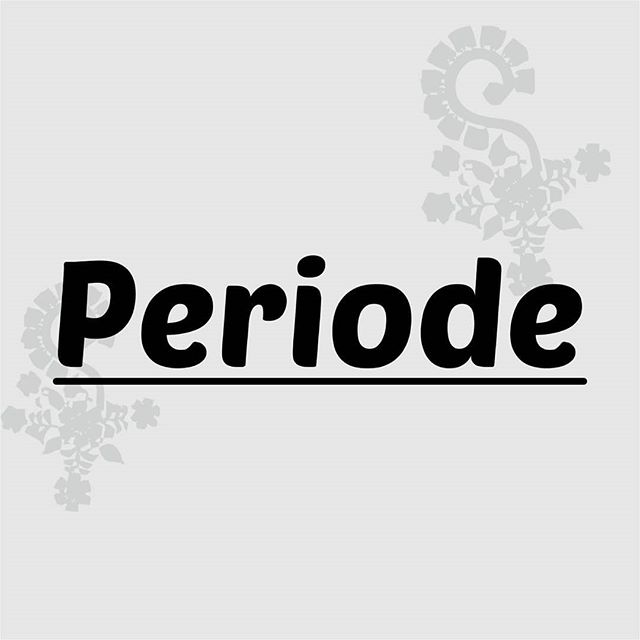
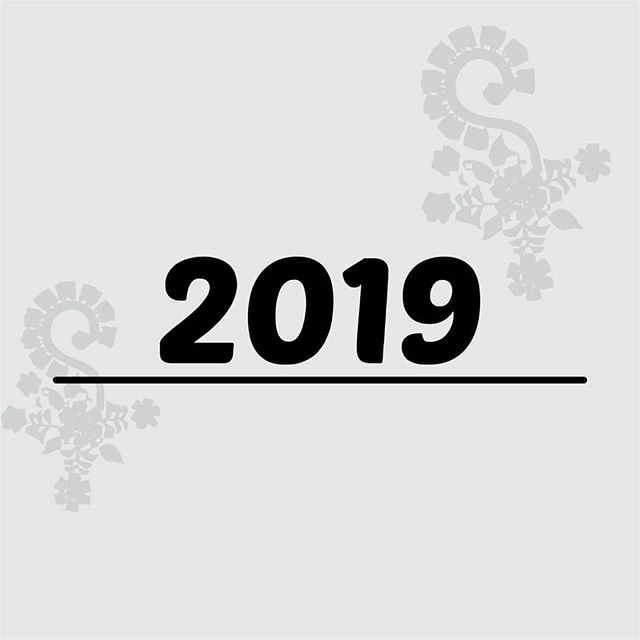
sepertinya final

Changed region(s): [[0.0938, 0.375, 0.9062, 0.625]]

diff --git a/index.html b/index.html
@@ -52,7 +52,7 @@
         </div>
 
         <div id="scene">
-            <img v-for="i in 13" :src="'./src/assets/img/p-'+i+'.png'" class="position-absolute" :id="'bg'+i">
+            <img v-for="i in 13" :src="'./src/assets/img/p-'+i+'.png'" class="position-absolute">
         </div>
         
         <div class="container pt-2">
@@ -82,7 +82,7 @@
                 <!-- <img src="./src/assets/img/bg-foto.jpg" alt=""> -->
             </div>
 
-            <div class="text-center pt-5 m-5">
+            <div class="text-center content-m">
                 <div class="my-5 pt-5">
                     <h2>Kepengurusan HMTI</h2>
                     <h4 class="text-secondary">- Periode 2019 -</h4>
@@ -94,81 +94,104 @@
 
                 <div class="row">
                     <div class="col-md-4 my-3" v-for="i in 12">
-                        <img :src="'./src/assets/img/hmti/p-'+i+'.jpg'" class="w-100 hmti-p" :id="'bg'+i">
+                        <img :src="'./src/assets/img/hmti/p-'+i+'.jpg'" class="w-100 hmti-p scale" :id="'bg'+i">
                     </div>
                 </div>
             </div>
             
+            <div class="dropdown-divider m-0"></div>
             
             <!-- About Us -->
-            <div class="row about text-center">
-                <div class="col-md-10 m-5 mx-auto">
-                    <div>
+            <div class="row about content-m text-center">
+
+                <img src="./src/assets/img/p-11.png" class="position-absolute">
+                <img src="./src/assets/img/p-3.png" class="position-absolute">
+                <img src="./src/assets/img/p-5.png" class="position-absolute">
+                <img src="./src/assets/img/p-9.png" class="position-absolute">
+                <img src="./src/assets/img/p-10.png" class="position-absolute">
+                <img src="./src/assets/img/p-13.png" class="position-absolute">
+                
+                <div class="col-md-10 mx-auto">
+                    <div class="my-5">
                         <h2>About Us</h2>
                         <h4 class="text-secondary">- The Amazing Team -</h4>
                     </div>
+                    
                     <div class="row">
-                        <div class="col-md-4" v-for="about in abouts">
[1 lines of base64/hex data omitted]
+                        <div class="col-md-4" v-for="(about, key) in abouts">
+                            <img class="rounded-circle dev scale" :src="'./src/assets/img/about/p-'+key+'.jpg'" alt="">
                             <h5 class="mt-3">{{ about.name }}</h5>
                             <p class="job text-secondary">- {{ about.job }} -</p>
                         </div>
                     </div>
                 </div>
+
             </div> <!-- / About Us -->
-            
-
-            <div class="dropdown-divider m-0"></div>
-    
+                
         </div> <!-- Container -->
-
+        
         <!-- Contact Us -->
-        <div class="contact">
-            <div class="text-center pt-5">
-                <div class="my-5 pt-5">
-                    <h2>Contact Us</h2>
-                    <!-- <h4 class="gray">- Periode 2019 -</h4> -->
-                </div>
-
-                <!-- <div class="donut donut-center-top position-absolute"></div> -->
-
-                <!-- <div class="donut donut-center-bottom position-absolute"></div> -->
+        <div class="gradient-bar mt-5"></div>
+        <div class="contact py-5 text-white">
+            <div class="py-5 container">
 
                 <div class="row">
-                    <div class="col-md-4">
+                    <div class="col-md-5 pr-1">
+                        <h6 class="font-weight-bold pb-3 text-uppercase">Contact us</h5>
+                        <div class="text-secondary">
 
+                            <p class="font-weight-bold">logiXode Inc. | Rohmad Kurniadi</p>
+                            <p>Singolatren, Singojuruh, Kab. Banyuwangi</p>
+
+                            <div class="row">
+                                <div class="col-md-5">
+                                    <icon-call></icon-call>+6287886541321
+                                </div>
+
+                                <div class="col-md-7">
+                                    <icon-mail></icon-mail>    
+                                    <a href="mailto:rohmad1230@gmail.com">rohmad1230@gmail.com</a>
+                                </div>
+                            </div>
+
+                        </div>
                     </div>
 
-                    <div class="col-md-4">
+                    <div class="col-md-4 pr-1">
+                        <h6 class="font-weight-bold pb-3 text-uppercase">Find Us at</h5>
+
+                        <icon-fb></icon-fb>
+                        <icon-github></icon-github>
+                        <icon-yt></icon-yt>
+                        <icon-ig></icon-ig>
+                    </div>
+
+                    <div class="col-md-3 pr-1 text-right">
+                        <h6 class="font-weight-bold pb-3 text-uppercase">Compatible Device</h5>
                             
+                        <icon-android></icon-android>
+                        <icon-ios></icon-ios>
+                        <icon-win></icon-win>
                     </div>
-
-                    <div class="col-md-4">
-                        Compatible Device
-                    </div>
-                    <!-- <div class="col-md-4 my-3" v-for="i in 12">
-                        <img :src="'./src/assets/img/hmti/p-'+i+'.jpg'" class="w-100 hmti-p" :id="'bg'+i">
-                    </div> -->
                 </div>
+
             </div>
         </div> <!-- / Contact Us -->
 
         <!-- Footer -->
-        <footer class="mt-5">
+        <footer>
             <div class="container">
 
-                <div class="row p-2">
+                <div class="row py-2">
                     <div class="col-md-11 pt-3">
                         <h4 class="rainbow font-weight-bold mb-1">TI POLIWANGI</h4>
                         <div class="text-secondary">
                             <p>Copyright ©2019 All rights reserved | This Website made with Vue by Rohmad Kurniadi</p>
                         </div>
                     </div>
-                    <div class="col-md-1 pt-3 text-center">
-                        <a href="https://www.instagram.com/tipoliwangi12/">
-                            <svg xmlns="http://www.w3.org/2000/svg" width="50" height="50" viewBox="0 0 24 24">
-                                <path style="fill : #fff" d="M12 2.163c3.204 0 3.584.012 4.85.07 3.252.148 4.771 1.691 4.919 4.919.058 1.265.069 1.645.069 4.849 0 3.205-.012 3.584-.069 4.849-.149 3.225-1.664 4.771-4.919 4.919-1.266.058-1.644.07-4.85.07-3.204 0-3.584-.012-4.849-.07-3.26-.149-4.771-1.699-4.919-4.92-.058-1.265-.07-1.644-.07-4.849 0-3.204.013-3.583.07-4.849.149-3.227 1.664-4.771 4.919-4.919 1.266-.057 1.645-.069 4.849-.069zm0-2.163c-3.259 0-3.667.014-4.947.072-4.358.2-6.78 2.618-6.98 6.98-.059 1.281-.073 1.689-.073 4.948 0 3.259.014 3.668.072 4.948.2 4.358 2.618 6.78 6.98 6.98 1.281.058 1.689.072 4.948.072 3.259 0 3.668-.014 4.948-.072 4.354-.2 6.782-2.618 6.979-6.98.059-1.28.073-1.689.073-4.948 0-3.259-.014-3.667-.072-4.947-.196-4.354-2.617-6.78-6.979-6.98-1.281-.059-1.69-.073-4.949-.073zm0 5.838c-3.403 0-6.162 2.759-6.162 6.162s2.759 6.163 6.162 6.163 6.162-2.759 6.162-6.163c0-3.403-2.759-6.162-6.162-6.162zm0 10.162c-2.209 0-4-1.79-4-4 0-2.209 1.791-4 4-4s4 1.791 4 4c0 2.21-1.791 4-4 4zm6.406-11.845c-.796 0-1.441.645-1.441 1.44s.645 1.44 1.441 1.44c.795 0 1.439-.645 1.439-1.44s-.644-1.44-1.439-1.44z"/>
-                            </svg>
+                    <div class="col-md-1 pt-3 text-right">
+                        <a href="https://www.instagram.com/tipoliwangi/">
+                           <icon-ig/>
                         </a>
                     </div>
                 </div>

diff --git a/src/js/app.js b/src/js/app.js
@@ -21,11 +21,6 @@ var app = new Vue({
       ],
         scrolled: false,
     },
-    components: {
-       VueHeader: {},
-       VueFooter: {}
-    },
-
     mounted() {
         $(window).scroll(function () {
             if ($(document).scrollTop() <= 50) {
@@ -37,6 +32,43 @@ var app = new Vue({
             }
             // var $nav = $(".nav-stanby")
             // $nav.toggleClass('main_menu', $(this).scrollTop() > 70)
-        });
+        })
     }
 })
+
+Vue.component('icon-mail', {
+    template: '<svg xmlns="http://www.w3.org/2000/svg" width="20" height="20" viewBox="0 0 24 24"><path style="fill : #fff" d="M0 3v18h24v-18h-24zm21.518 2l-9.518 7.713-9.518-7.713h19.036zm-19.518 14v-11.817l10 8.104 10-8.104v11.817h-20z"/></svg>'
+}),
+
+Vue.component('icon-call', {
+    template: '<svg xmlns="http://www.w3.org/2000/svg" width="20" height="20" viewBox="0 0 24 24"><path style="fill : #fff" d="M6.176 1.322l2.844-1.322 4.041 7.89-2.724 1.341c-.538 1.259 2.159 6.289 3.297 6.372.09-.058 2.671-1.328 2.671-1.328l4.11 7.932s-2.764 1.354-2.854 1.396c-7.862 3.591-19.103-18.258-11.385-22.281zm1.929 1.274l-1.023.504c-5.294 2.762 4.177 21.185 9.648 18.686l.971-.474-2.271-4.383-1.026.5c-3.163 1.547-8.262-8.219-5.055-9.938l1.007-.497-2.251-4.398z"/></svg>'
+}),
+
+Vue.component('icon-ig', {
+    template: "<svg xmlns='http://www.w3.org/2000/svg' width='50' height='50' class='scale' viewBox='0 0 24 24'><path style='fill : #fff' d='M12 2.163c3.204 0 3.584.012 4.85.07 3.252.148 4.771 1.691 4.919 4.919.058 1.265.069 1.645.069 4.849 0 3.205-.012 3.584-.069 4.849-.149 3.225-1.664 4.771-4.919 4.919-1.266.058-1.644.07-4.85.07-3.204 0-3.584-.012-4.849-.07-3.26-.149-4.771-1.699-4.919-4.92-.058-1.265-.07-1.644-.07-4.849 0-3.204.013-3.583.07-4.849.149-3.227 1.664-4.771 4.919-4.919 1.266-.057 1.645-.069 4.849-.069zm0-2.163c-3.259 0-3.667.014-4.947.072-4.358.2-6.78 2.618-6.98 6.98-.059 1.281-.073 1.689-.073 4.948 0 3.259.014 3.668.072 4.948.2 4.358 2.618 6.78 6.98 6.98 1.281.058 1.689.072 4.948.072 3.259 0 3.668-.014 4.948-.072 4.354-.2 6.782-2.618 6.979-6.98.059-1.28.073-1.689.073-4.948 0-3.259-.014-3.667-.072-4.947-.196-4.354-2.617-6.78-6.979-6.98-1.281-.059-1.69-.073-4.949-.073zm0 5.838c-3.403 0-6.162 2.759-6.162 6.162s2.759 6.163 6.162 6.163 6.162-2.759 6.162-6.163c0-3.403-2.759-6.162-6.162-6.162zm0 10.162c-2.209 0-4-1.79-4-4 0-2.209 1.791-4 4-4s4 1.791 4 4c0 2.21-1.791 4-4 4zm6.406-11.845c-.796 0-1.441.645-1.441 1.44s.645 1.44 1.441 1.44c.795 0 1.439-.645 1.439-1.44s-.644-1.44-1.439-1.44z'/></svg>"
+}),
+
+Vue.component('icon-fb', {
+    template: '<svg xmlns="http://www.w3.org/2000/svg" width="50" height="50" class="scale" viewBox="0 0 24 24"><path style="fill : #fff" d="M19 0h-14c-2.761 0-5 2.239-5 5v14c0 2.761 2.239 5 5 5h14c2.762 0 5-2.239 5-5v-14c0-2.761-2.238-5-5-5zm-3 7h-1.924c-.615 0-1.076.252-1.076.889v1.111h3l-.238 3h-2.762v8h-3v-8h-2v-3h2v-1.923c0-2.022 1.064-3.077 3.461-3.077h2.539v3z"/></svg>'
+}),
+
+Vue.component('icon-yt', {
+    template: '<svg xmlns="http://www.w3.org/2000/svg" width="66" class="scale" viewBox="0 0 24 24"><path style="fill : #fff" d="M19.615 3.184c-3.604-.246-11.631-.245-15.23 0-3.897.266-4.356 2.62-4.385 8.816.029 6.185.484 8.549 4.385 8.816 3.6.245 11.626.246 15.23 0 3.897-.266 4.356-2.62 4.385-8.816-.029-6.185-.484-8.549-4.385-8.816zm-10.615 12.816v-8l8 3.993-8 4.007z"/></svg>'
+}),
+
+Vue.component('icon-github', {
+    template: '<svg xmlns="http://www.w3.org/2000/svg" width="50" height="50" class="scale" viewBox="0 0 24 24"><path style="fill : #fff" d="M12 0c-6.626 0-12 5.373-12 12 0 5.302 3.438 9.8 8.207 11.387.599.111.793-.261.793-.577v-2.234c-3.338.726-4.033-1.416-4.033-1.416-.546-1.387-1.333-1.756-1.333-1.756-1.089-.745.083-.729.083-.729 1.205.084 1.839 1.237 1.839 1.237 1.07 1.834 2.807 1.304 3.492.997.107-.775.418-1.305.762-1.604-2.665-.305-5.467-1.334-5.467-5.931 0-1.311.469-2.381 1.236-3.221-.124-.303-.535-1.524.117-3.176 0 0 1.008-.322 3.301 1.23.957-.266 1.983-.399 3.003-.404 1.02.005 2.047.138 3.006.404 2.291-1.552 3.297-1.23 3.297-1.23.653 1.653.242 2.874.118 3.176.77.84 1.235 1.911 1.235 3.221 0 4.609-2.807 5.624-5.479 5.921.43.372.823 1.102.823 2.222v3.293c0 .319.192.694.801.576 4.765-1.589 8.199-6.086 8.199-11.386 0-6.627-5.373-12-12-12z"/></svg>'
+}),
+
+Vue.component('icon-android', {
+    template: '<svg xmlns="http://www.w3.org/2000/svg" width="50" height="50" class="scale" viewBox="0 0 24 24"><path style="fill : #fff" d="M6 8l.001 9.444c0 .861.696 1.556 1.557 1.556h.442v3.542c0 .804.707 1.458 1.51 1.458.806 0 1.49-.654 1.49-1.459v-3.541h2v3.542c0 .804.707 1.458 1.511 1.458.806 0 1.489-.654 1.489-1.459v-3.541l.444-.001c.858 0 1.556-.696 1.556-1.557v-9.442h-12zm16 1.471c0-.805-.695-1.471-1.5-1.471-.805-.001-1.5.667-1.5 1.472v6.106c0 .806.694 1.422 1.5 1.422.805 0 1.5-.615 1.5-1.422v-6.107zm-17 0c0-.805-.695-1.471-1.5-1.471-.805-.001-1.5.667-1.5 1.472v6.106c0 .806.694 1.422 1.5 1.422.805 0 1.5-.615 1.5-1.422v-6.107zm9.951-7.312l.94-1.859c.068-.132-.019-.3-.163-.3-.066 0-.13.038-.164.105l-.949 1.878c-1.531-.737-3.544-.812-5.229 0l-.95-1.878c-.033-.067-.097-.105-.164-.105-.144 0-.231.168-.163.3l.94 1.859c-1.845 1.034-3.049 2.584-3.049 4.84h12c0-2.256-1.204-3.806-3.049-4.84zm-5.45 2.841c-.276 0-.501-.224-.501-.5 0-.274.225-.5.501-.5s.499.226.499.5c0 .276-.223.5-.499.5zm4.998 0c-.276 0-.499-.224-.499-.5 0-.274.223-.5.499-.5s.501.226.501.5c0 .276-.225.5-.501.5z"/></svg>'
+}),
+
+Vue.component('icon-ios', {
+    template: '<svg xmlns="http://www.w3.org/2000/svg" width="50" height="50" class="scale" viewBox="0 0 24 24"><path style="fill : #fff" d="M22 17.607c-.786 2.28-3.139 6.317-5.563 6.361-1.608.031-2.125-.953-3.963-.953-1.837 0-2.412.923-3.932.983-2.572.099-6.542-5.827-6.542-10.995 0-4.747 3.308-7.1 6.198-7.143 1.55-.028 3.014 1.045 3.959 1.045.949 0 2.727-1.29 4.596-1.101.782.033 2.979.315 4.389 2.377-3.741 2.442-3.158 7.549.858 9.426zm-5.222-17.607c-2.826.114-5.132 3.079-4.81 5.531 2.612.203 5.118-2.725 4.81-5.531z"/></svg>'
+}),
+
+Vue.component('icon-win', {
+    template: '<svg xmlns="http://www.w3.org/2000/svg" width="50" height="50" class="scale" viewBox="0 0 24 24"><path style="fill : #fff" d="M0 12v-8.646l10-1.355v10.001h-10zm11 0h13v-12l-13 1.807v10.193zm-1 1h-10v7.646l10 1.355v-9.001zm1 0v9.194l13 1.806v-11h-13z"/></svg>'
+})
+// ==== EOF ====

diff --git a/src/css/style.css b/src/css/style.css
@@ -79,7 +79,7 @@ body {
 }
 
 .dev {
-    height: 75%;
+    height: 200px;
     box-shadow: 0 0.5rem 2rem rgba(0,0,0,.125)!important;
     vertical-align: middle;
     position: relative;
@@ -146,7 +146,7 @@ body {
 }
 
 .donut-center-bottom {
-    margin-top: 850px;
+    margin-top: 900px;
     margin-left: -300px;
 }
 
@@ -178,7 +178,11 @@ body {
     background-clip: text;
 
     box-shadow: none;
+}
 
+a {
+    color: inherit !important;
+    text-decoration: none !important;
 }
 
 #scene {
@@ -201,20 +205,57 @@ body {
     box-shadow: 0px 10px 30px rgba(170, 183, 185, 0.4);
 }
 
+.scale:hover {
+    cursor: pointer;
+    animation: bounce 0.2s;
+    transform: scale(1.05);
+}
+
+@keyframes bounce {
+    0% {
+        transform: scale(1)
+    }
+    50% {
+        transform: scale(1.08)
+    }
+    100% {
+        transform: scale(1.05)
+    }
+}
+
+.content-m {
+    margin: 150px 0 !important;
+}
+
 .about::before {
     content: '';
-    width: 430px;
-    height: 20px;
+    margin: -50px -50%;
+    width: 150%;
+    height: 50px;
     position: absolute;
-    /* top: 11%; */
-    /* left: 24%; */
-    background: #000000;
+    transform: rotate(-4deg);
+    background: linear-gradient(to right, #FFEF03, #FF5A00);
+}
+
+.about .position-absolute {
+    transform: rotate(180deg);
+    z-index: -2;
+    margin: 0 -10%;
+}
+
+.contact {
+    background-color: #1d1d1d;
 }
 
 footer {
     width: 100%;
     /* padding: 20px; */
     background-color: #161616;
+}
+
+.gradient-bar {
+    height: 5px;
+    background: linear-gradient(to right, #FFEF03, #FF5A00);
 }
 
 @media screen and (max-width: 1480px) {
